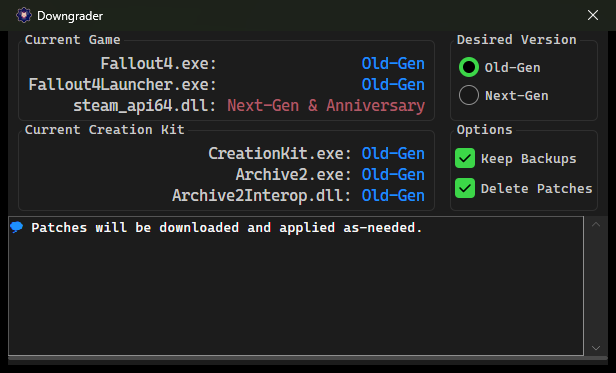
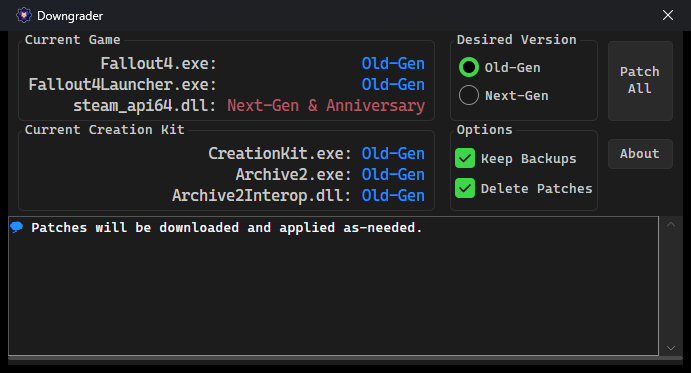
test(parity): re-capture screenshot pairs the fix phase changed
From the code review of the fix phase.

- screenshots.py: since bug #20's fix the exe's Scanner boxes start from the
  scanner_* settings in its folder's settings.json, so --scan no longer
  toggles all six data boxes blindly. saved_scan_boxes reads the starting
  states and only the boxes not already as wanted are clicked (SCAN_BOXES,
  SCAN_GAME); a driver test covers the settings read.
- Re-captured the port side of update-banner (bug #83: v0.7.1, not vv0.7.1),
  overview/modules-archives-mixed (bug #33: 10 Full / 13 Total) and
  downgrader/dg-game (bug #85: the window widens for its long label). The
  committed tk.png references are kept; the compare images are rebuilt from
  them with screenshots.py's own composers.
- The scanner pairs (side-pane, results, results-mo2, details, details-mo2,
  data-walk-mo2) re-captured with an avalonia.png identical to the committed
  one, so they are left as they were.
- dotnet/README.md and parity/README.md describe what the pairs now show.

diff --git a/parity/driver/screenshots.py b/parity/driver/screenshots.py
@@ -27,6 +27,7 @@ of the tree. Scripted ``dialogs`` answer only the reference's; the exe shows rea
 import argparse
 import contextlib
 import ctypes
+import json
 import os
 import runpy
 import subprocess
@@ -72,10 +73,20 @@ MODAL_VARIABLE = "CMT_SCREENSHOT_MODAL"
 SCAN_VARIABLE = "CMT_SCREENSHOT_SCAN"
 # Tells the reference child which Scanner result to select once the scan has listed it (``--select``).
 SELECT_VARIABLE = "CMT_SCREENSHOT_SELECT"
-# The C# Scanner side pane's title (PaneWindow), and where ``--scan`` clicks in its client pixels: the six data boxes
-# (Errors .. Race Subgraphs) to untick them, then Scan Game. Measured from parity/screenshots/scanner/side-pane.
+# The C# Scanner side pane's title (PaneWindow), and where ``--scan`` clicks in its client pixels: each box with the
+# setting it starts from, then Scan Game. Measured from parity/screenshots/scanner/side-pane (Overview Issues sits one
+# 28 px row above Errors).
 SIDE_PANE_TITLE = "Collective Modding Toolkit pane (Side)"
-SCAN_CLICKS = [(26, 70), (26, 98), (26, 126), (26, 154), (26, 182), (26, 210), (100, 375)]
+SCAN_BOXES = [
+	("scanner_OverviewIssues", (26, 42)),
+	("scanner_Errors", (26, 70)),
+	("scanner_WrongFormat", (26, 98)),
+	("scanner_LoosePrevis", (26, 126)),
+	("scanner_JunkFiles", (26, 154)),
+	("scanner_ProblemOverrides", (26, 182)),
+	("scanner_RaceSubgraphs", (26, 210)),
+]
+SCAN_GAME = (100, 375)
 # Tells the reference child to run the Downgrader's Patch All once it is open (``--patch``), with this Desired Version.
 PATCH_VARIABLE = "CMT_SCREENSHOT_PATCH"
 # Where ``--patch`` clicks in the C# Downgrader's client pixels: each Desired Version radio, and Patch All. Measured from
@@ -242,6 +253,22 @@ def click(hwnd: int, point: tuple[int, int]) -> None:
 	user32.PostMessageW(target, WM_LBUTTONUP, 0, position)
 
 
+def saved_scan_boxes(folder: Path) -> list[bool]:
+	"""The C# Scanner boxes' starting states, in ``SCAN_BOXES`` order.
+
+	Since bug #20's fix the C# app ticks them from the ``scanner_*`` settings in its folder's ``settings.json`` (the
+	scenario's ``cwd`` here), where the reference always starts with every box ticked. A missing or unreadable file, or
+	a value that isn't a bool, means ticked, as ``SettingsFile.Load`` falls back to the default.
+	"""
+	try:
+		saved = json.loads((folder / "settings.json").read_text("utf-8"))
+	except (OSError, ValueError):
+		saved = {}
+	if not isinstance(saved, dict):
+		saved = {}
+	return [value if isinstance(value := saved.get(key), bool) else True for key, _ in SCAN_BOXES]
+
+
 def run_and_capture(
 	command: list[str],
 	cwd: Path,
@@ -259,6 +286,7 @@ def run_and_capture(
 	select: bool = False,
 	select_at: tuple[int, int] | None = None,
 	scan_all: bool = False,
+	scan_boxes: list[bool] | None = None,
 ) -> Image.Image:
 	"""Starts an app, waits for its main window, lets it render, captures it, and closes it (WM_CLOSE, then kill).
 
@@ -266,8 +294,9 @@ def run_and_capture(
 	select it by clicking its header (the C# app), rather than the app selecting it itself (the reference child).
 	With ``modal``, the window captured is that modal instead of the main window; with ``click_tab`` it is opened by
 	clicking its button (``MODAL_BUTTONS``), otherwise the app opens it itself. With ``scan`` (on the Scanner tab), an
-	Overview Issues scan runs first: ``click_tab`` clicks the side pane's boxes and Scan Game (``SCAN_CLICKS``),
-	otherwise the app runs it itself; with ``scan_all`` too, every box stays ticked and only Scan Game is clicked.
+	Overview Issues scan runs first: ``click_tab`` clicks the side pane's boxes that ``scan_boxes`` (their starting
+	states, ``saved_scan_boxes``; all ticked when None) shows aren't as wanted, then Scan Game (``SCAN_BOXES``,
+	``SCAN_GAME``), otherwise the app runs it itself; with ``scan_all`` too, every box is wanted ticked.
 	With ``panes``, the app's other windows are pasted in place around the main one.
 	With ``select`` (after a scan), a result is selected so the details pane opens: ``click_tab`` clicks ``select_at``
 	in the main window's client pixels (a results row), otherwise the app selects it itself.
@@ -300,9 +329,17 @@ def run_and_capture(
 				if side is None:
 					msg = f"{label} showed no Scanner side pane"
 					raise RuntimeError(msg)
-				for point in SCAN_CLICKS[-1:] if scan_all else SCAN_CLICKS:
-					click(side, point)
-					time.sleep(0.2)
+				# Click only the boxes not already as wanted: Overview Issues ticked, and the six data boxes ticked
+				# for --scan-all, unticked otherwise. A posted click toggles, so clicking a box already right would
+				# undo it.
+				starting = scan_boxes if scan_boxes is not None else [True] * len(SCAN_BOXES)
+				wanted = [True] + [scan_all] * (len(SCAN_BOXES) - 1)
+				for (_, point), ticked, want in zip(SCAN_BOXES, starting, wanted, strict=True):
+					if ticked != want:
+						click(side, point)
+						time.sleep(0.2)
+				click(side, SCAN_GAME)
+				time.sleep(0.2)
 			# Long enough for the reference's delayed scan and for either app to refresh the Overview and list results.
 			time.sleep(4)
 		if select:
@@ -654,6 +691,7 @@ def main() -> int:
 			modal=args.modal,
 			scan=args.scan or args.scan_all,
 			scan_all=args.scan_all,
+			scan_boxes=saved_scan_boxes(cwd),
 			panes=args.panes,
 			patch=args.patch,
 			select=bool(args.select),

diff --git a/parity/driver/tests/test_harness.py b/parity/driver/tests/test_harness.py
@@ -354,6 +354,23 @@ class SessionTests(unittest.TestCase):
 		)
 
 
+class ScreenshotScanBoxTests(unittest.TestCase):
+	def test_the_port_s_scanner_boxes_start_from_the_saved_settings_or_ticked(self) -> None:
+		"""Bug #20's fix: the C# app's boxes start from settings.json, so --scan clicks only those not as wanted."""
+		from screenshots import saved_scan_boxes  # noqa: PLC0415 - imports PIL and user32, so only this test pays for it
+
+		folder = Path(tempfile.mkdtemp(prefix="cmt-driver-tests-"))
+		try:
+			self.assertEqual(saved_scan_boxes(folder), [True] * 7)
+			saved = {"scanner_OverviewIssues": True, "scanner_Errors": False, "scanner_JunkFiles": "no"}
+			(folder / "settings.json").write_text(json.dumps(saved), "utf-8")
+			self.assertEqual(saved_scan_boxes(folder), [True, False, True, True, True, True, True])
+			(folder / "settings.json").write_text("not json", "utf-8")
+			self.assertEqual(saved_scan_boxes(folder), [True] * 7)
+		finally:
+			shutil.rmtree(folder, ignore_errors=True)
+
+
 class ScreenshotShutdownTests(unittest.TestCase):
 	def test_kill_tree_takes_the_descendants_down_too(self) -> None:
 		"""A parent that starts a grandchild-style child (like a venv redirector) leaves no orphan behind."""

diff --git a/dotnet/README.md b/dotnet/README.md
@@ -110,14 +110,16 @@ can't be opened (SHELL-13).
   (bug #82, which struck the reference on some pages only). HttpClient does not follow an https-to-http
   redirect, which requests did.
 - The update banner matches Tk to the pixel at 100 % (see [`parity/screenshots/update-banner/`](../parity/screenshots/update-banner/));
-  its link tooltips are Avalonia's, not tktooltip's. That pair predates the fix for bug #83: the port's GitHub link
-  now reads `v0.7.1 (GitHub)` where Tk's reads `vv0.7.1 (GitHub)`.
+  its link tooltips are Avalonia's, not tktooltip's. The pair shows the fix for bug #83 (a Deviation): the port's
+  GitHub link reads `v0.7.1 (GitHub)` where Tk's reads `vv0.7.1 (GitHub)`.
 - Overview (see [`parity/screenshots/overview/`](../parity/screenshots/overview/), rechecked with all three frames
   built): the frames now match Tk's widths, and the Archives and Modules content lines up to the pixel. Tk grids an
   unpadded labelframe's content from its border line, so the Overview's GroupBoxes give back the theme's 4 px side
   gutters. The Binaries names column still sits ~2 px right of Tk's (a ttk label's internal padding around its text).
   The Downgrade Manager, Archive Patcher and refresh buttons' paddings were measured off the pairs rather than derived
-  from sv_ttk.
+  from sv_ttk. The `modules-archives-mixed` pair shows the fix for bug #33 (a Deviation): the port counts the CC
+  module listed in both Fallout4.ccc and plugins.txt once, so its Modules frame reads 10 Full and 13 Total where Tk's
+  reads 11 and 14.
 - If an Overview load or refresh fails part-way (no local app data folder, or a binary, module or archive that can't
   be read for a reason other than permissions), the error is reported and the report becomes what had been gathered,
   as the reference's shared state was left; a step that never started keeps the previous report's part. The frames stay as they were. A failed load's warning boxes
@@ -126,7 +128,8 @@ can't be opened (SHELL-13).
   order is the string hash's; only the order of the Invalid Archive problems and `Archives: Checking` log lines
   depends on it (T-15), and the goldens compare those as unordered.
 - Downgrader (see [`parity/screenshots/downgrader/`](../parity/screenshots/downgrader/)): the frames, radios, checkboxes,
-  buttons and the log pane's box line up with Tk's. The log pane's emoji is Segoe UI Symbol's filled glyph in the
+  buttons and the log pane's box line up with Tk's. The `dg-game` pair shows the fix for bug #85 (a Deviation): its
+  `Next-Gen & Anniversary` label widens the port's window, so Patch All and About stay visible where Tk's lost them. The log pane's emoji is Segoe UI Symbol's filled glyph in the
   tag colour, where Tk's GDI fallback draws Segoe UI Emoji's outline, so the message starts ~4 px further left; its
   scrollbar is Fluent's, which hides its thumb with nothing to scroll where sv_ttk's shows a full-height one. The
   progress bar is below the fixed 334 px window in both (clipped, as in Tk), so its look isn't compared. The log
@@ -158,7 +161,10 @@ can't be opened (SHELL-13).
 - The results tree's open groups keep Fluent's down chevron, where sv_ttk draws the right-pointing indicator for
   open and closed groups alike. The results scrollbar is Fluent's, which hides its thumb with nothing to scroll, as
   the log pane's does. Result group order is random in the reference (B-4); the port lists groups in the order their
-  problem types first appear, the same on every run (bug #23, a Deviation).
+  problem types first appear, the same on every run (bug #23, a Deviation), so the scanner pairs list the groups in
+  another order than Tk's. Their No Mod Manager result names `cm-toolkit.exe` where Tk's names `main.py`, the
+  program each was started as. The port's boxes start from the saved `scanner_*` settings (bug #20, a Deviation);
+  `screenshots.py --scan` clicks only the boxes not already as wanted.
 - Downgrader Patch All (see [`parity/screenshots/downgrader-run/`](../parity/screenshots/downgrader-run/)): Delta
   Patches come from this fork's mirror (`DeltaPatches.UrlBase`, issue #16). Downloads send `User-Agent:
   cm-toolkit/<version>` and ask for no compression, where requests asked for gzip and decoded it itself (GitHub serves

diff --git a/parity/README.md b/parity/README.md
@@ -256,9 +256,10 @@ reference opens it in-process two seconds after `CMChecker` is built (told which
 gets a posted click on the opening button, fixed in `MODAL_BUTTONS`. The capture is the window with that title.
 
 `--tab Scanner --scan` runs an Overview Issues scan before capturing: the reference unticks the six data boxes and
-presses Scan Game in-process (told by `CMT_SCREENSHOT_SCAN`), the exe gets posted clicks at `SCAN_CLICKS` in its side
-pane. `--scan-all` scans with every box still ticked instead: only Scan Game is pressed (the last `SCAN_CLICKS`
-point on the exe). `--panes` pastes the app's other windows (the Scanner's docked panes) where they sit around the main window, on
+presses Scan Game in-process (told by `CMT_SCREENSHOT_SCAN`), the exe gets posted clicks in its side pane
+(`SCAN_BOXES`, `SCAN_GAME`). The exe's boxes start from the `scanner_*` settings in its folder's `settings.json` (bug
+#20, fixed), so only the boxes not already as wanted are clicked, then Scan Game. `--scan-all` scans with every box
+ticked instead. `--panes` pastes the app's other windows (the Scanner's docked panes) where they sit around the main window, on
 black, so the capture shows them in place.
 `--select TEXT --select-at X,Y` then selects a result so the details pane opens: the reference selects the item with
 that text in-process once the scan has listed it (told by `CMT_SCREENSHOT_SELECT`), the exe gets a posted click at
